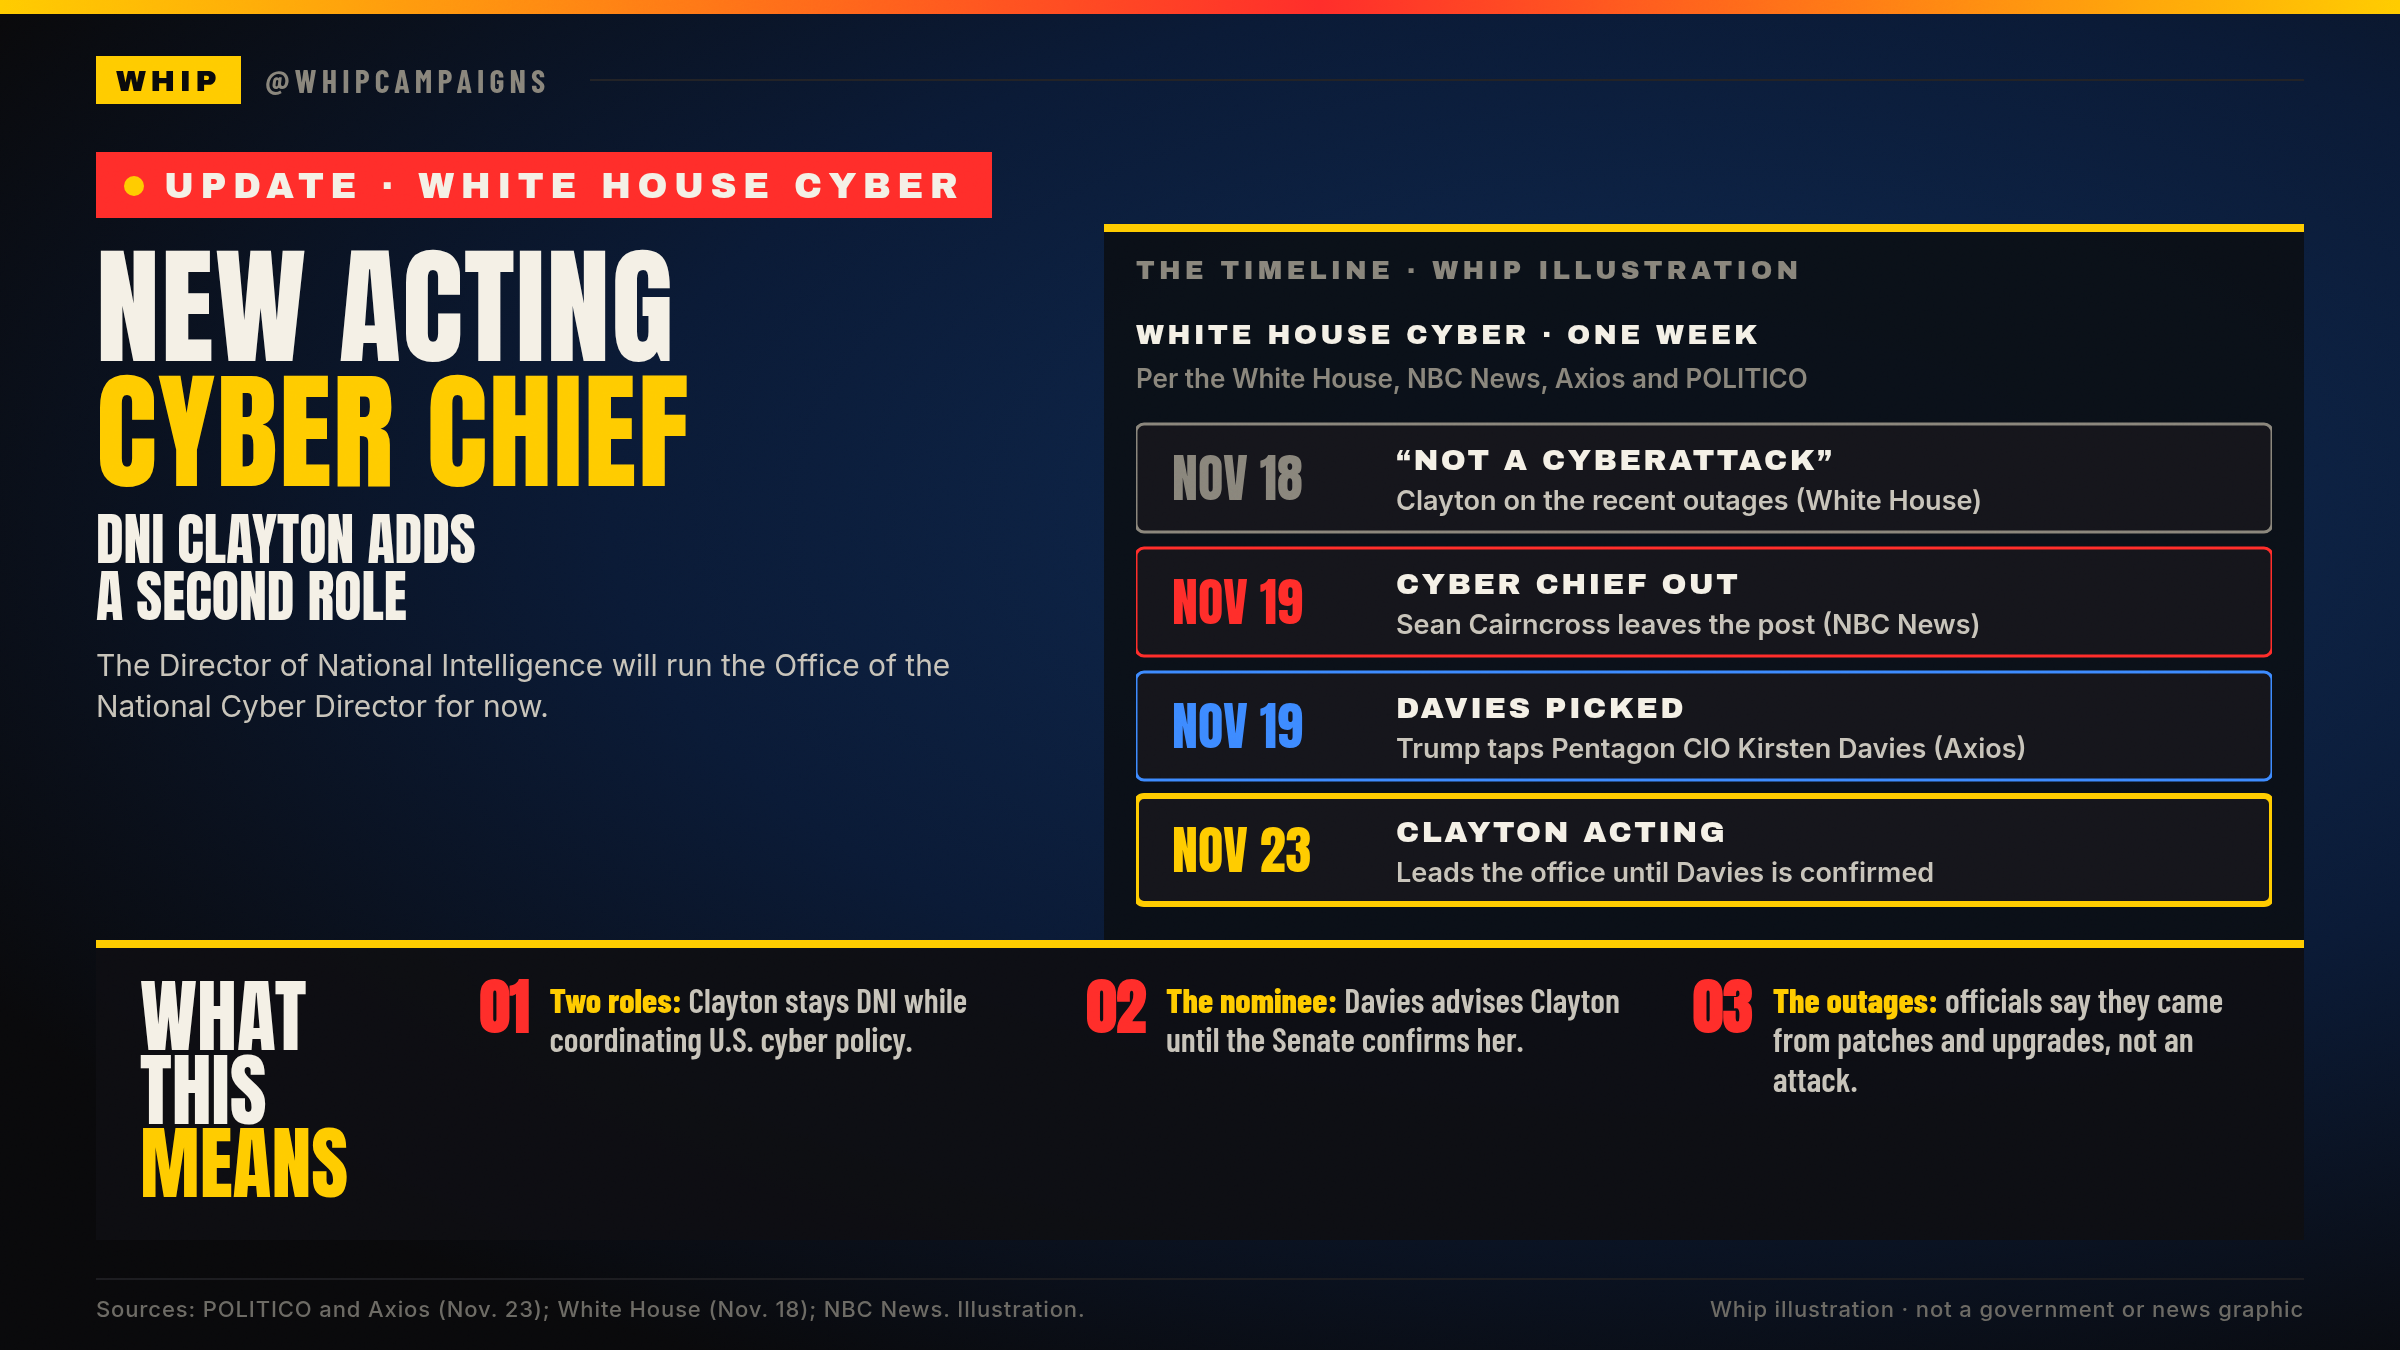
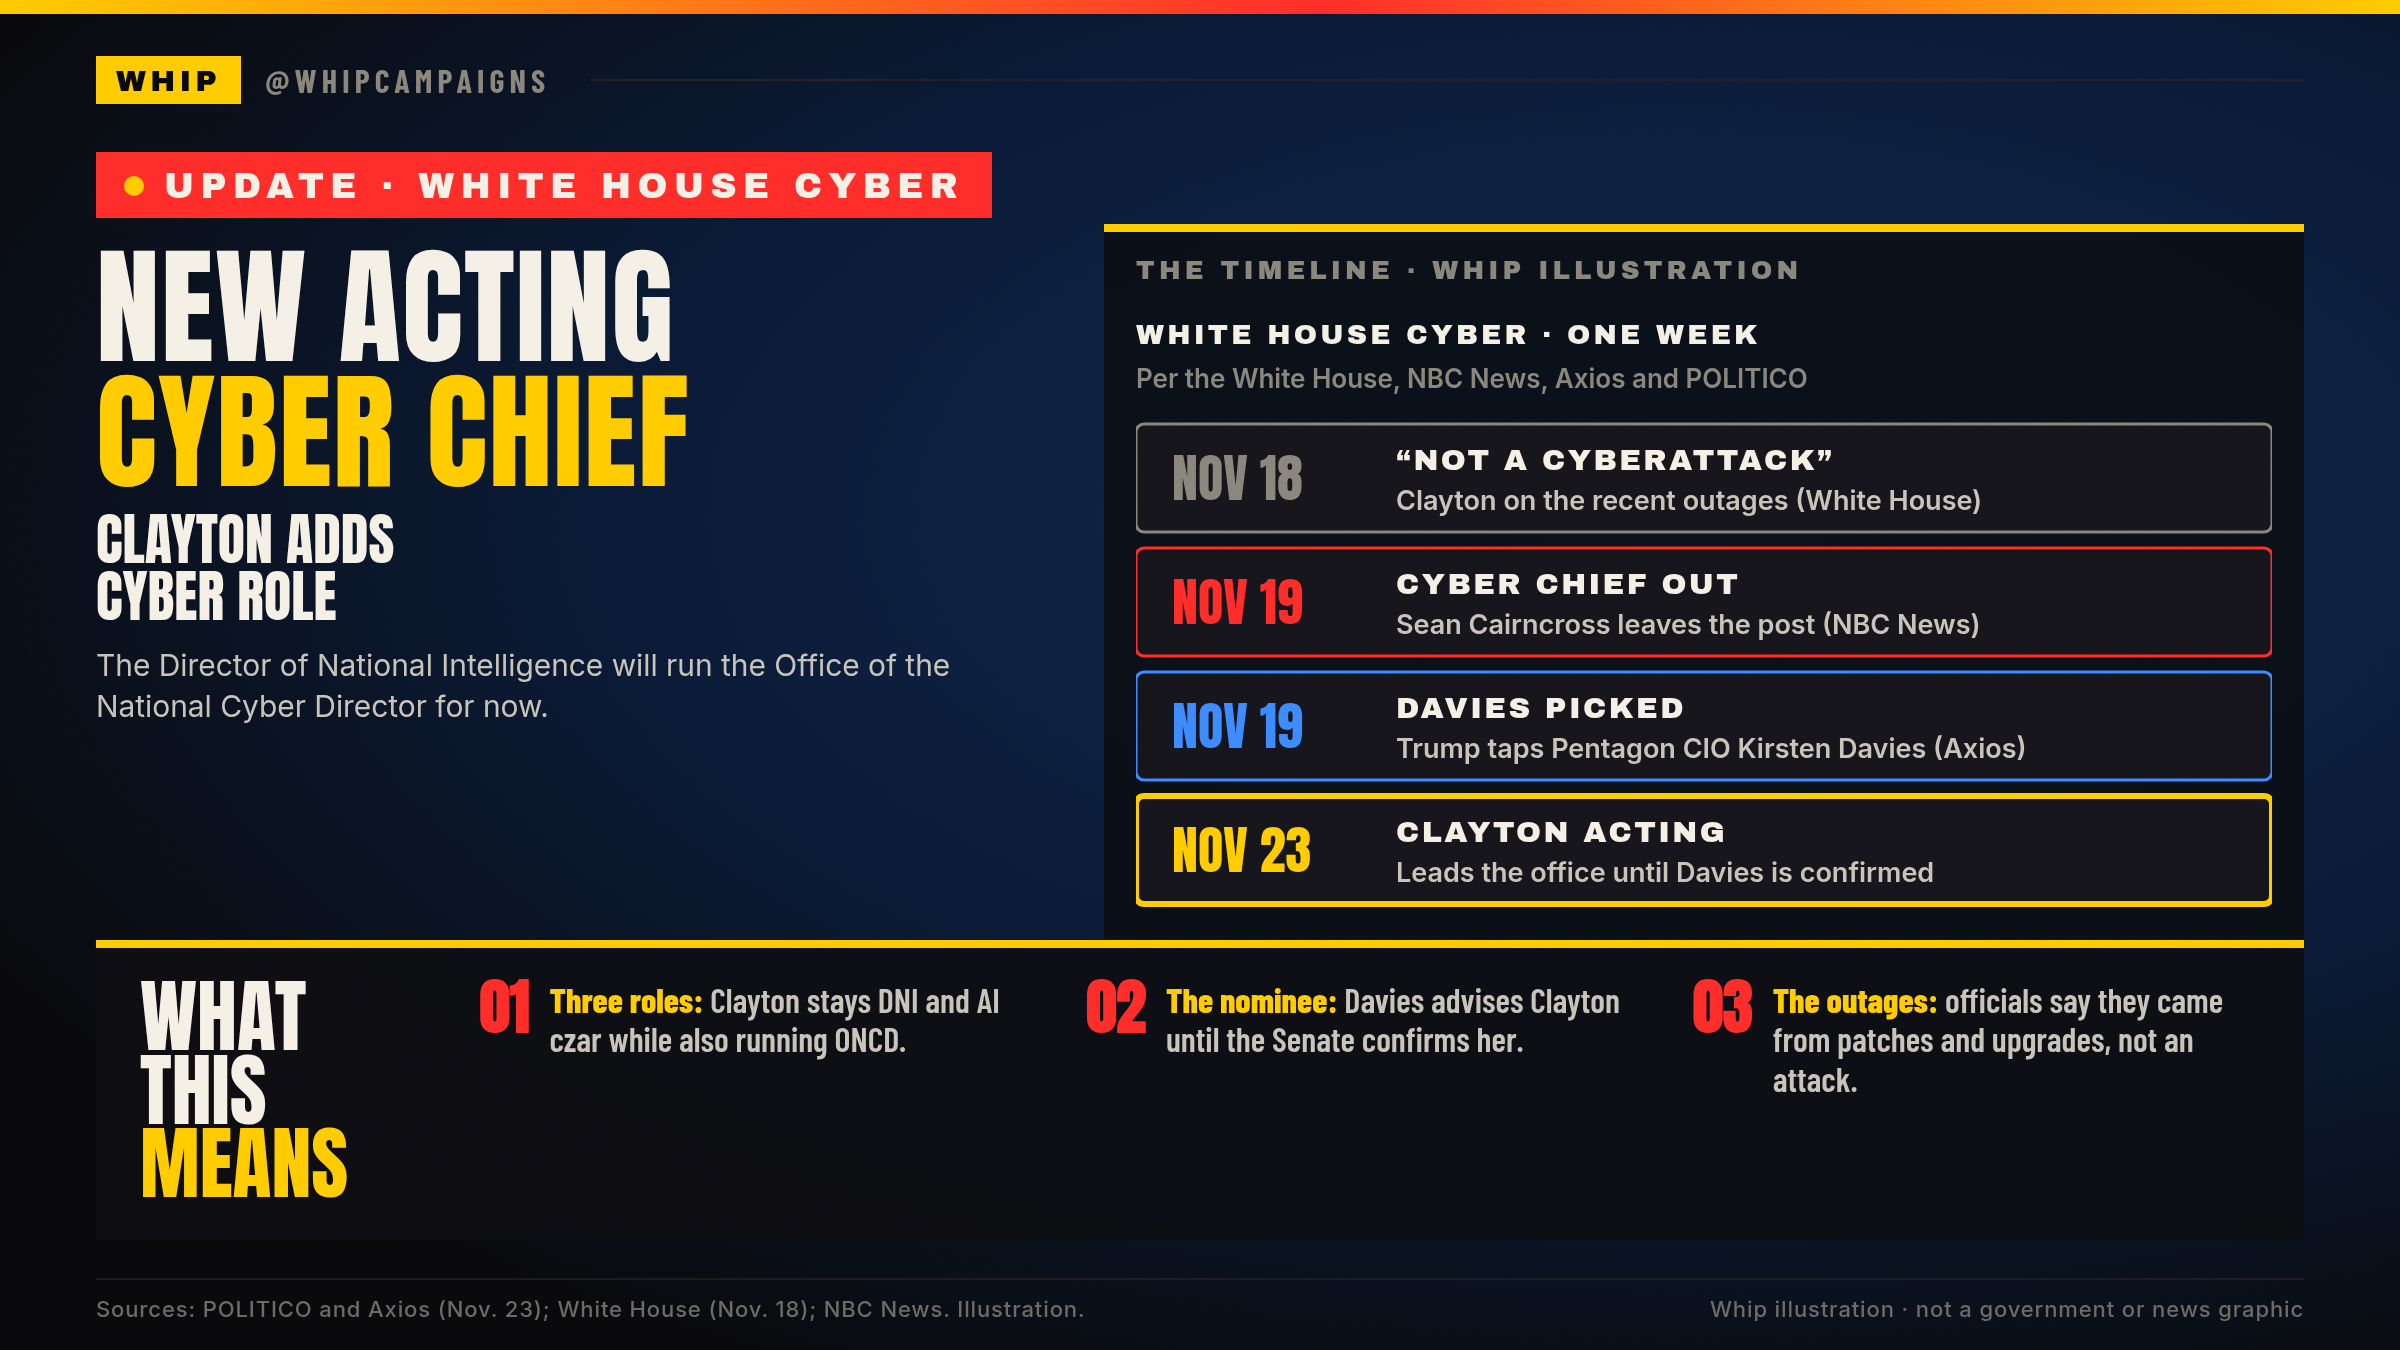
Update Clayton acting cyber chief card per Approver review

Changed region(s): [[0.0312, 0.3733, 0.2188, 0.4667], [0.2188, 0.7156, 0.4062, 0.7778]]

diff --git a/breaking/2026-11-23-cyber-director-clayton/make_card.py b/breaking/2026-11-23-cyber-director-clayton/make_card.py
@@ -31,7 +31,7 @@ html = wrap(f"""
 <div class="tag"><span class="dot"></span>UPDATE &middot; WHITE HOUSE CYBER</div>
 <div class="left">
   <div class="h1">NEW ACTING<br><span class="y">CYBER CHIEF</span></div>
-  <div class="h2">DNI CLAYTON ADDS<br>A SECOND ROLE</div>
+  <div class="h2">CLAYTON ADDS<br>CYBER ROLE</div>
   <div class="att">The Director of National Intelligence will run the Office of the National Cyber Director for now.</div>
 </div>
 <div class="panel">
@@ -40,7 +40,7 @@ html = wrap(f"""
 </div>
 <div class="strip">
   <div class="wt">WHAT THIS<br><span class="y">MEANS</span></div>
-  <div class="b"><div class="n">01</div><div><b>Two roles:</b> Clayton stays DNI while coordinating U.S. cyber policy.</div></div>
+  <div class="b"><div class="n">01</div><div><b>Three roles:</b> Clayton stays DNI and AI czar while also running ONCD.</div></div>
   <div class="b"><div class="n">02</div><div><b>The nominee:</b> Davies advises Clayton until the Senate confirms her.</div></div>
   <div class="b"><div class="n">03</div><div><b>The outages:</b> officials say they came from patches and upgrades, not an attack.</div></div>
 </div>

diff --git a/breaking/2026-11-23-cyber-director-clayton/tweet.md b/breaking/2026-11-23-cyber-director-clayton/tweet.md
@@ -1,15 +1,3 @@
-# UPDATE: Jay Clayton named acting national cyber director (Nov 23, 2026)
+UPDATE: DNI Jay Clayton, also White House AI czar, will serve as acting national cyber director until nominee Kirsten Davies is confirmed, the White House told POLITICO (Axios first reported).
 
-Draft (not posted). Target: reply via X to our Cairncross UPDATE https://x.com/whipcampaigns/status/2123595333196230738 to keep the outages/cyber thread. Attach card.png. No hook.
-
-Text (len 277):
-
-UPDATE: DNI Jay Clayton will also serve as acting national cyber director until Trump's nominee, Kirsten Davies, is confirmed by the Senate, the White House told POLITICO.
-
-Last week, Clayton said the recent outages were "not a cyberattack." Should one official hold both jobs?
-
-Sources:
-- POLITICO, Nov 23 1:21 PM ET: https://www.politico.com/news/2026/11/23/jay-clayton-interim-national-cyber-director-01180632
-- Axios, Nov 23: https://www.axios.com/2026/11/23/jay-clayton-acting-national-cyber-director
-- Washington Post on X: https://x.com/washingtonpost/status/2124930994280992789
-- White House, Nov 18 (Clayton: "This is not a cyberattack"): https://www.whitehouse.gov/releases/2026/11/no-indication-of-a-cyberattack-dni-clayton-and-secretary-rubio-on-recent-tech-outages/
+Davies will advise him; last week Clayton called the outages "not a cyberattack."
